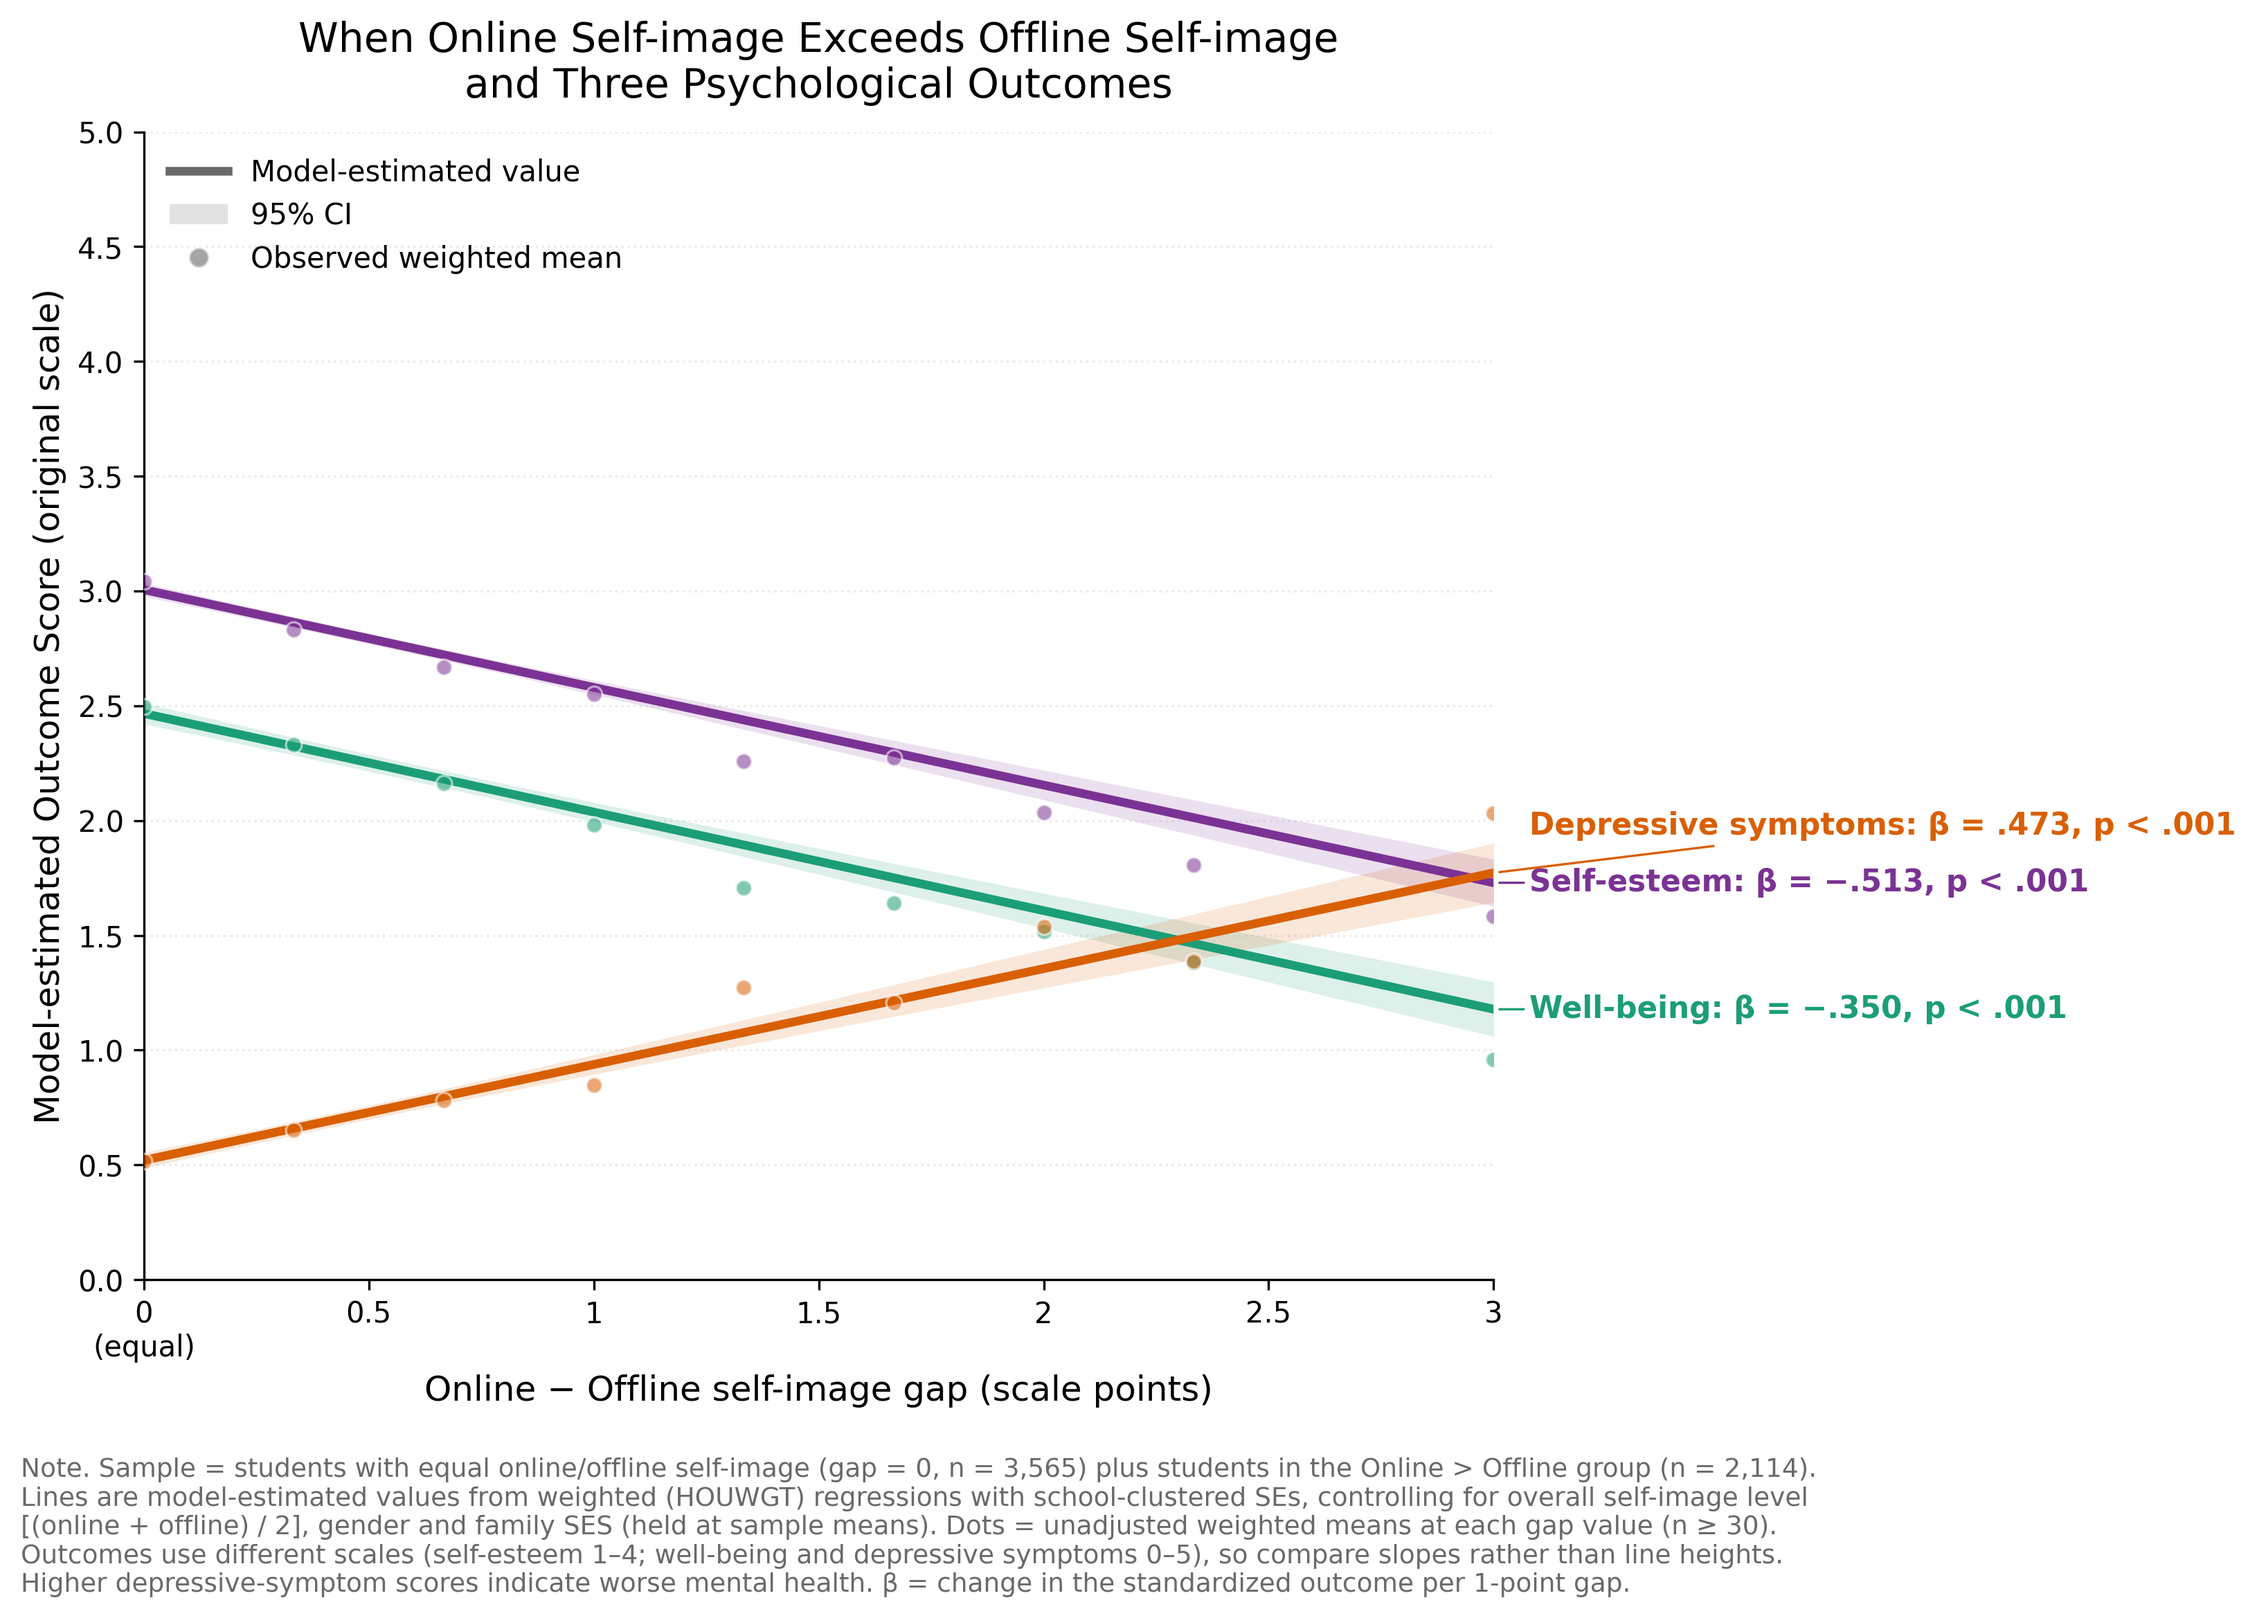
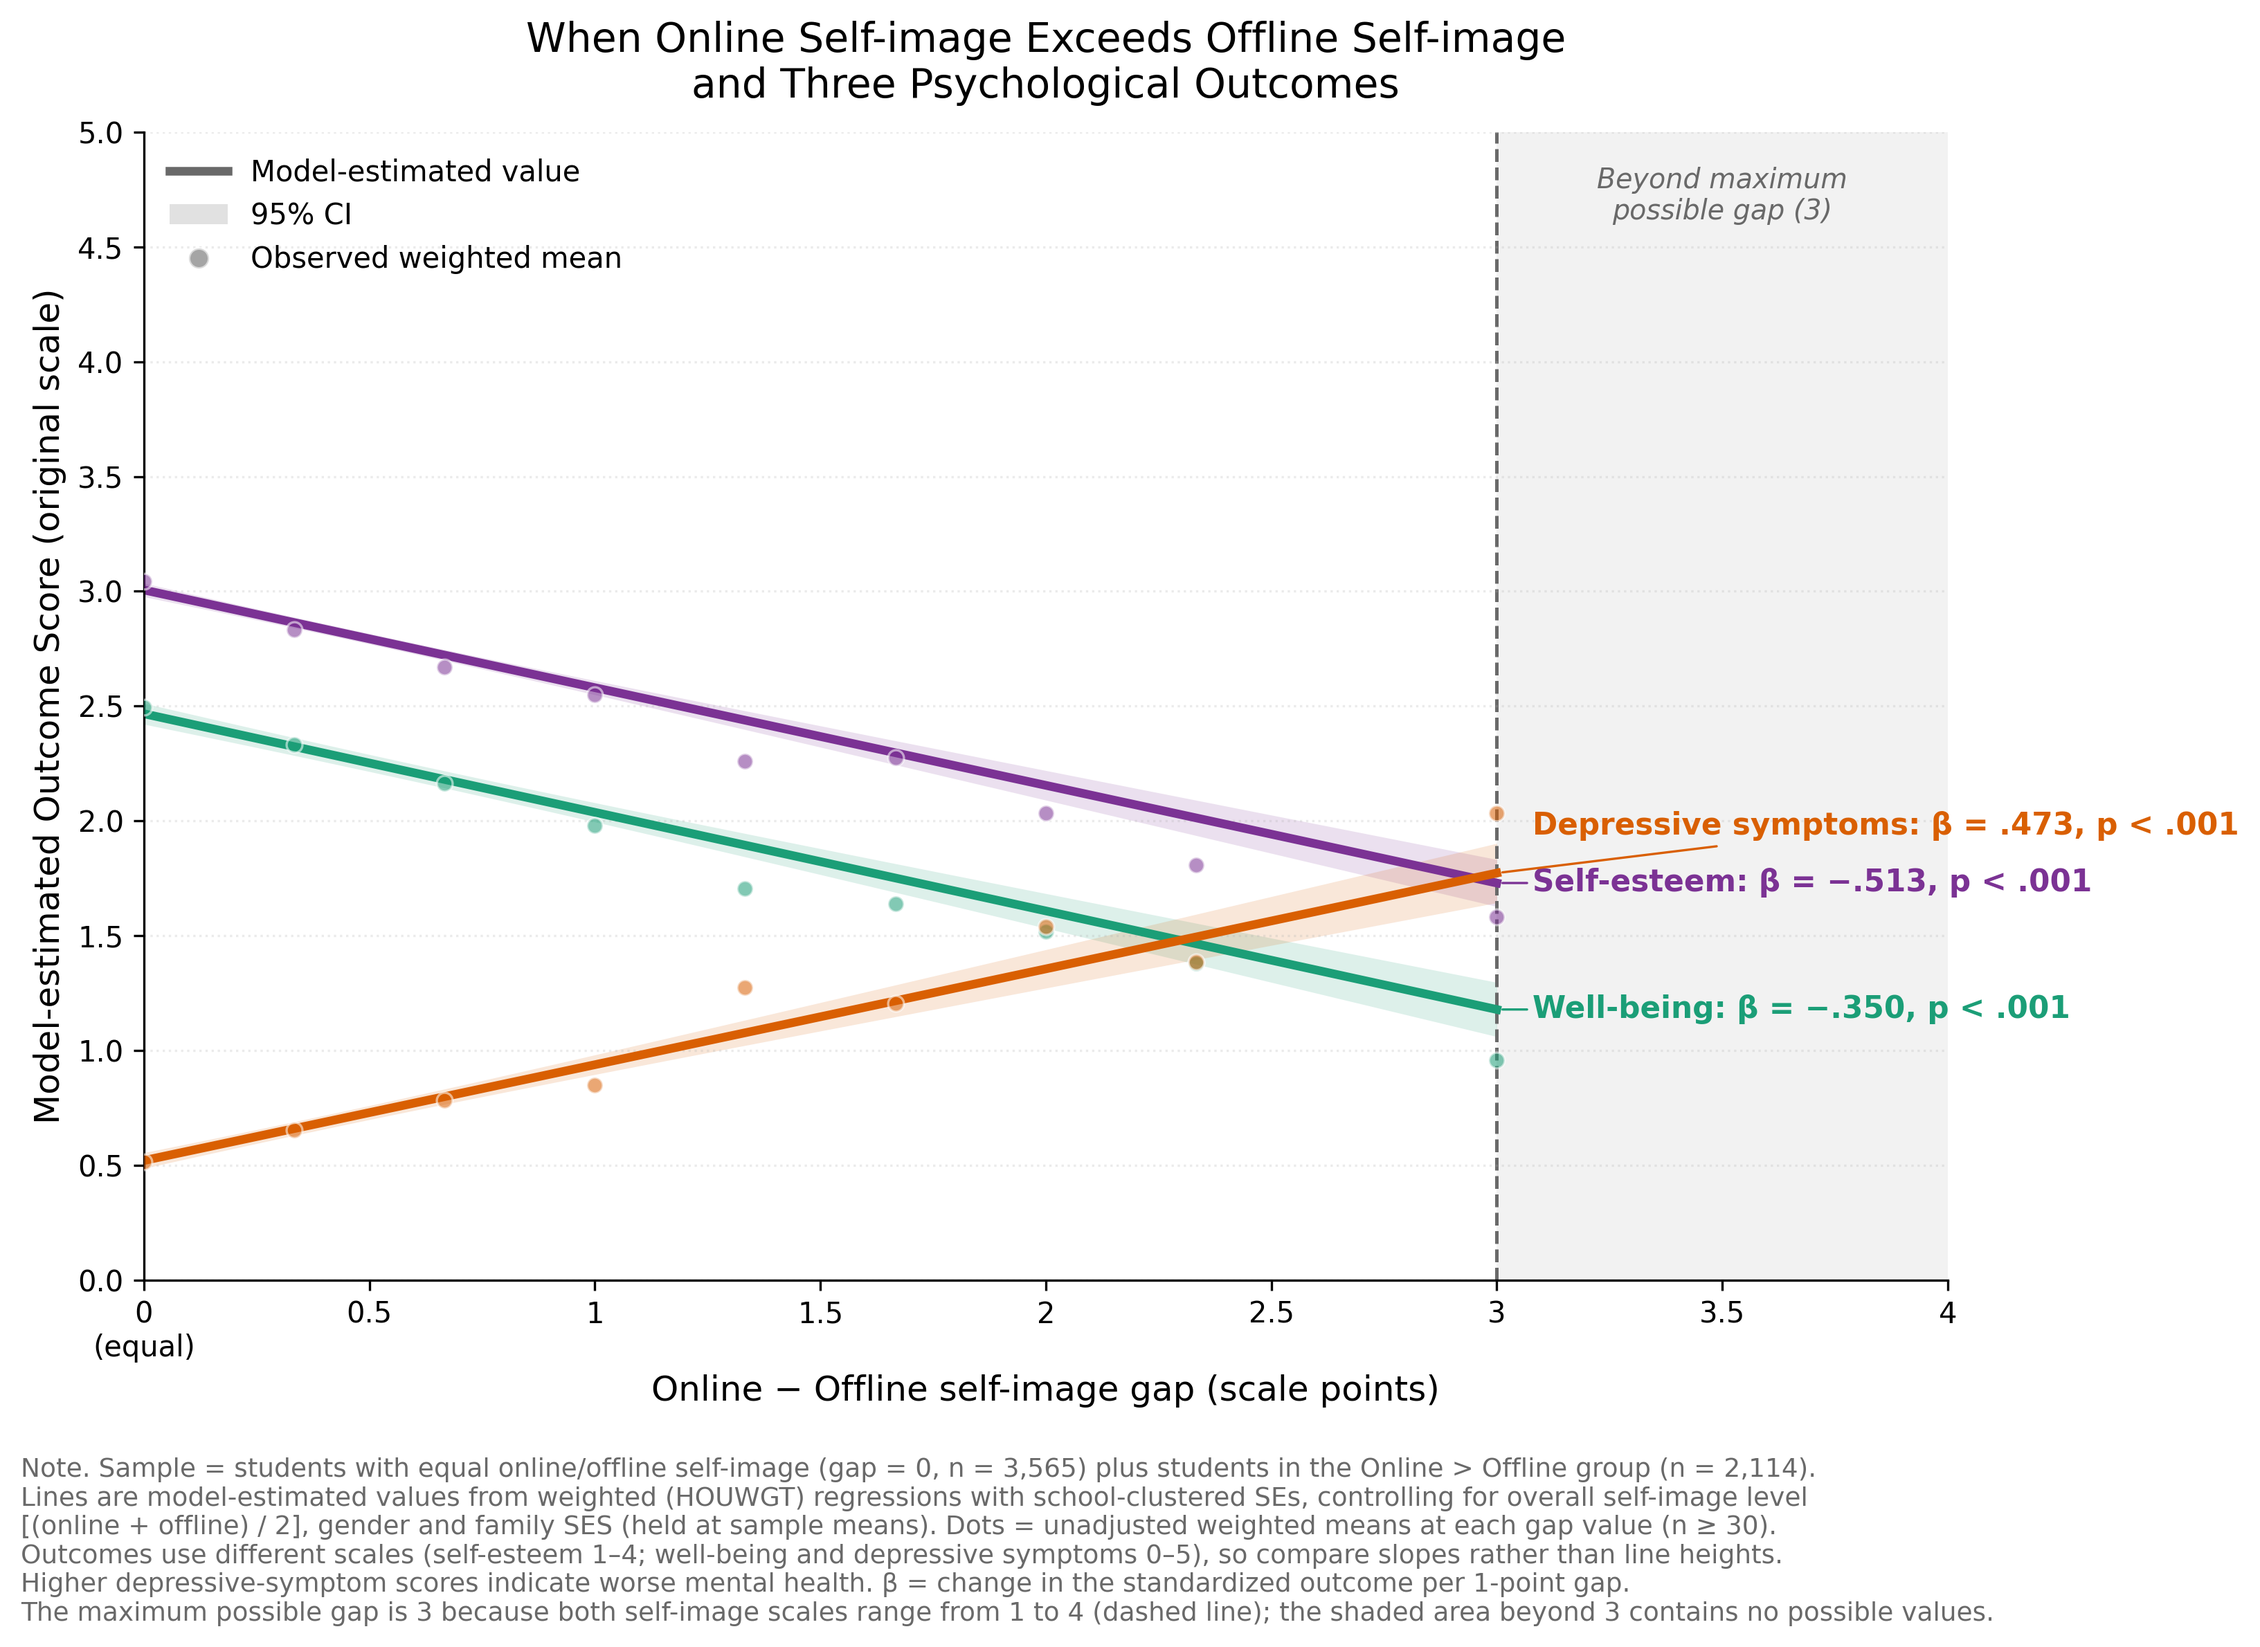
R3修改

diff --git a/topic1_figures.py b/topic1_figures.py
@@ -740,9 +740,11 @@ for spec in fig3_specs:
             out["color"],
         ))
 
-    ax.set_xlim(0, 3)
-    ax.set_xticks(np.arange(0, 3.01, 0.5))
-    ax.set_xticklabels(["0\n(equal)", "0.5", "1", "1.5", "2", "2.5", "3"])
+    # x 軸畫到 4（與其他圖一致）；落差最大只可能是 3，所以線停在 3
+    ax.set_xlim(0, 4)
+    ax.set_xticks(np.arange(0, 4.01, 0.5))
+    ax.set_xticklabels(["0\n(equal)", "0.5", "1", "1.5", "2", "2.5", "3",
+                        "3.5", "4"])
     ax.set_ylim(0, 5)
     ax.set_yticks(np.arange(0, 5.01, 0.5))
 
@@ -790,6 +792,13 @@ for spec in fig3_specs:
     ax.spines["right"].set_visible(False)
     ax.grid(axis="y", linestyle=":", alpha=0.25)
 
+    # 終止線：落差最大可能值 = 3（兩個量表都是 1–4 分），3–4 之間不可能有資料
+    ax.axvspan(3, 4, color="#F2F2F2", zorder=0, linewidth=0)
+    ax.axvline(3, color="dimgray", linestyle="--", linewidth=1.2, zorder=1)
+    ax.text(3.5, 4.85, "Beyond maximum\npossible gap (3)",
+            ha="center", va="top", fontsize=9.5, color="dimgray",
+            style="italic")
+
     n_dir = (subset["gap_group"] == spec["direction"]).sum()
     n_eq = (subset["gap_group"] == "Equal").sum()
     fig.text(
@@ -803,7 +812,9 @@ for spec in fig3_specs:
         "Outcomes use different scales (self-esteem 1–4; well-being and depressive symptoms 0–5), "
         "so compare slopes rather than line heights.\n"
         "Higher depressive-symptom scores indicate worse mental health. "
-        "β = change in the standardized outcome per 1-point gap.",
+        "β = change in the standardized outcome per 1-point gap.\n"
+        "The maximum possible gap is 3 because both self-image scales range from 1 to 4 "
+        "(dashed line); the shaded area beyond 3 contains no possible values.",
         fontsize=9, color="dimgray", ha="left", va="top",
     )
 
